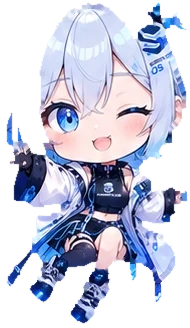
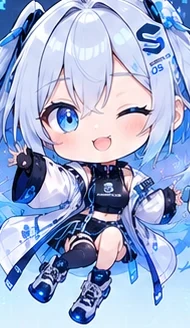
1C23 — ประโยคเดียว · สีทึบ · น้องไซตัวครบ
1. น้องไซตัวขาดเพราะ despeckle เก็บเฉพาะก้อนใหญ่สุด หลัง erode 2px
   ปอยผม รองเท้า ของในมือขาดจากตัวแล้วถูกลบทิ้งทั้งชิ้น
   แต่รากลึกกว่านั้น: ผมสีเงินกับเสื้อคลุมขาวโปร่งมีค่าสีอยู่ในระยะเดียวกับ
   พื้นหลังฟ้าอ่อน ไม่มีเกณฑ์ไหนแยกได้เพราะมันเป็นสีเดียวกันจริง
   เลิกตัดแล้ว ใช้ภาพเต็มในไทล์มุมมนที่ไม่มีพื้น/กรอบ เพื่อให้ทับด้วย
   PNG พื้นโปร่งได้ทันทีเมื่อได้ไฟล์จากเจ้าของ

2. การ์ดผลลัพธ์เหลือประโยคเดียว "คืนนี้ไม่แตะ พรุ่งนี้ +45 นาที"
   พื้นทึบ --fill + --on-fill สูตรเดียวกับหัวตั๋วในหน้าวันนี้

3. ตัดเวลาที่เขียนซ้ำในแถวเดียวกันออก บรรทัดรองเหลือ "ถึง 21:00"

4. ช่องว่างเป็นก้อน --sig-green ตัวอักษรขาว ผ่าน AA ทุกธีม
   การ์ด "พัก" เส้นประเปลี่ยนเป็นขาวโปร่งด้วย ไม่งั้นเทาบนเขียวอ่านไม่ออก

diff --git a/alt/sai.css b/alt/sai.css
@@ -113,9 +113,14 @@
   position: relative; width: 92px; height: 159px;
   transform: rotate(calc(var(--sx) * 3.5deg)) translateX(calc(var(--sx) * 4px));
 }
+/* มุมมน แต่ไม่มีพื้นหลัง — จงใจให้ใช้ได้กับภาพสองชนิดโดยไม่ต้องแก้ CSS:
+   ไฟล์ปัจจุบันยังมีพื้นหลังฟ้าอ่อนติดมา มุมมนทำให้มันอ่านเป็น "ไทล์" ไม่ใช่รูปสี่เหลี่ยมแปะ
+   วันที่ได้ PNG พื้นโปร่งจากคนวาด มุมมนบนพื้นโปร่งมองไม่เห็นอยู่แล้ว — ทับไฟล์ทิ้งได้เลย
+   ⚠ ห้ามใส่ background/border/box-shadow ตรงนี้ ไม่งั้นวันนั้นจะได้กรอบลอยรอบตัวเปล่า ๆ */
 .saip-chibi {
   position: relative; display: block;
   width: 92px; height: 159px; object-fit: contain;
+  border-radius: 16px;
   animation: saiFloat 4.6s ease-in-out infinite;
 }
 .saip-chibi.dim { filter: saturate(.75) brightness(.94); }
@@ -182,19 +187,19 @@
 .sd-wake .sd-t, .sd-sleep .sd-t { color: var(--muted); font-weight: 700; font-size: 15px; }
 
 /* ---------- สีแยกหมวด ----------
-   ⚠ มีสีเดียวในเส้นเวลาทั้งเส้น และมันคือ "ช่องว่าง"
-   รอบที่แล้วทาสีทุกหมวด (เรียนฟ้า · ว่างเขียว · กิจกรรมเหลือง) ซึ่งได้ผลตรงข้าม:
-   เมื่อทุกอย่างมีสี ก็ไม่มีอะไรเด่น และในธีมมืดสีโปร่งสามสีทับพื้นการ์ดกลายเป็นโคลนสามกอง
-   ช่องว่างคือสิ่งเดียวบนเส้นนี้ที่เขา "ตัดสินใจได้" — คาบเรียนกับกิจวัตรเปลี่ยนไม่ได้อยู่แล้ว
-   สีจึงควรอยู่บนของที่กดแล้วเกิดอะไรขึ้น ไม่ใช่บนของที่ดูอย่างเดียว
+   มีก้อนสีทึบก้อนเดียวในเส้นเวลาทั้งเส้น และมันคือ "ช่องว่าง"
+   เพราะเป็นสิ่งเดียวบนเส้นนี้ที่เขาตัดสินใจได้ — คาบเรียนกับกิจวัตรเปลี่ยนไม่ได้อยู่แล้ว
+   สีควรอยู่บนของที่กดแล้วเกิดอะไรขึ้น ไม่ใช่บนของที่ดูอย่างเดียว
 
-   ใช้คู่ --pri-green-soft / --pri-green-text ซึ่งเป็นคู่ที่ออกแบบมาให้วางบนพื้นการ์ด
-   และพลิกตามธีมพร้อมกันทั้งคู่ · ห้ามเอา --sig-* มาใช้ตรงนี้ (ตัวอักษรจะเข้มบนพื้นเข้ม) */
+   ⚠ --sig-green ไม่พลิกตามธีม และตัวอักษรขาวบนมันผ่าน AA ทุกธีม (6.0)
+   ห้ามเปลี่ยนไปใช้ --good/--pri-green-* ตรงนี้ เพราะสองตัวนั้นพลิกตามธีม
+   ธีมมืดจะได้เขียวอ่อนซึ่งตัวอักษรขาวอ่านไม่ออก */
 .sd-free .sd-x {
-  background: var(--pri-green-soft);
-  border-left-color: var(--pri-green-text);
+  background: var(--sig-green); border-left-color: rgba(255,255,255,.35);
+  color: #fff;
 }
-.sd-free .sd-x > b { color: var(--pri-green-text); }
+.sd-free .sd-x > b { color: #fff; }
+.sd-free .sd-x > i { color: rgba(255,255,255,.8); }
 
 .sd-ev .sd-x { border-left-color: var(--pri-yellow-text); }
 .sd-ev .sd-x > b { color: var(--pri-yellow-text); }
@@ -274,56 +279,39 @@ button.sd-job:active { transform: scale(.985); }
    ตัวเลขทุกตัวในใบนี้มาจาก state จริง ไม่มีตัวไหนเป็นคำให้กำลังใจ
    วันไหนตัวเลขไม่สวยก็ต้องขึ้นตามนั้น — ตัวเลขที่สวยเสมอคือตัวเลขที่ไม่มีใครเชื่อ
    ============================================================ */
-/* ⚠ ตระกูลสีที่ใช้ตรงนี้คือ --sig-* เท่านั้น และนี่ไม่ใช่เรื่องรสนิยม
-   แอปนี้มีสองตระกูลที่ห้ามปนกัน (ดูบล็อก "โทเคนสัญญาณ" ใน today.css):
-     --pri-*-soft / --pri-*-text   พลิกตามธีม · พื้นอ่อน + ตัวอักษรเข้ม · วางบนพื้นการ์ด
-     --sig-*                       ไม่พลิกตามธีม · พื้นทึบ + ตัวอักษรขาวเสมอ
-   รอบที่แล้วผมใช้ --good-soft/--warn-soft ซึ่งในธีมมืดเป็นสีโปร่ง 26%
-   ทับพื้นการ์ดกรมท่า ได้สีโคลนน้ำตาลขุ่นที่อ่านยากและดูไม่ได้
-   การ์ดใบนี้เป็น "ก้อนสีเดียวของทั้งจอ" เหมือนหัวตั๋วในหน้าวันนี้ จึงต้องเป็นพื้นทึบ
-   ขาวบน #0B6E3F = 6.0 · บน #B54708 = 5.9 ผ่าน AA ทั้งคู่ทุกธีม */
+/* ============================================================
+   การ์ดผลลัพธ์ — ประโยคเดียว พื้นทึบ
+   ------------------------------------------------------------
+   สูตรเดียวกับหัวตั๋ว .tn-head ในหน้าวันนี้ ซึ่งเป็นใบที่เจ้าของชี้เองว่าสีโอเค:
+   พื้น --fill · ตัวอักษร --on-fill · วงกลมขาวโปร่งสองวงเป็นลวดลาย
+   ⚠ ทุกอย่างในนี้สืบสีจาก --on-fill ห้ามหลุดไปใช้ --ink แม้แต่ตัวเดียว
+   ไม่งั้นจะได้ตัวหนังสือเข้มบนพื้นเข้ม ซึ่งพังเฉพาะบางธีมและมองข้ามง่ายมากตอนเทส
+   ============================================================ */
 .sp-hero {
-  margin: 12px 0 6px; padding: 16px 18px;
-  border-radius: var(--r-card);
-  color: #fff;
-  box-shadow: var(--shadow);
+  position: relative; overflow: hidden;
+  margin: 12px 0 8px; padding: 20px 20px 22px;
+  border-radius: calc(var(--r-card) + 4px);
+  background: var(--fill); color: var(--on-fill);
+  box-shadow: var(--shadow-lg);
 }
-.sp-hero.ok   { background: var(--sig-green); }
-.sp-hero.warn { background: var(--sig-amber); }
-.sp-hero.calm { background: var(--card2); color: var(--ink); box-shadow: none; }
-
-.sp-h-lb {
-  display: block; font-size: 11.5px; font-weight: 700;
-  letter-spacing: .04em; color: rgba(255,255,255,.82);
+.sp-hero::after {
+  content: ''; position: absolute; right: -40px; top: -52px;
+  width: 160px; height: 160px; border-radius: 50%;
+  background: rgba(255,255,255,.11); pointer-events: none;
 }
-.sp-hero.calm .sp-h-lb { color: var(--muted); }
-
-/* ตัวเลขที่เป็นคำตอบใหญ่กว่าคำรอบข้างอีกชั้น — คนกวาดตาเจอ "0" ก่อนเจอ "ส่งทัน"
-   ซึ่งถูกแล้ว เพราะคำว่า "ส่งทัน" เหมือนกันทุกวัน ตัวเลขคือสิ่งเดียวที่เปลี่ยน */
-.sp-h-big {
-  display: block; margin-top: 3px;
-  font-size: 23px; font-weight: 750; letter-spacing: -.02em; line-height: 1.25;
+.sp-hero::before {
+  content: ''; position: absolute; right: 22px; bottom: -62px;
+  width: 116px; height: 116px; border-radius: 50%;
+  background: rgba(255,255,255,.07); pointer-events: none;
 }
-.sp-h-big em { font-style: normal; font-size: 34px; font-weight: 850; }
-
-/* สองผลที่ตามมา — อยู่แถวเดียวกันเพราะเป็นสองด้านของการตัดสินใจเดียว
-   พื้นขาวโปร่งบนพื้นทึบ ใช้ได้ทุกธีมเพราะพื้นข้างหลังไม่พลิกตามธีม */
-.sp-h-row {
-  display: grid; grid-template-columns: minmax(0, 1fr) minmax(0, 1fr); gap: 8px;
-  margin-top: 14px;
+.sp-hero b {
+  position: relative;
+  display: block; font-size: 19px; font-weight: 700; line-height: 1.45;
+  letter-spacing: -.015em; color: var(--on-fill);
 }
-.sp-h-cell {
-  min-width: 0; padding: 9px 11px; border-radius: 12px;
-  background: rgba(255,255,255,.16);
-}
-.sp-hero.calm .sp-h-cell { background: var(--card); }
-.sp-h-cell i {
-  display: block; font-size: 10.5px; font-style: normal; font-weight: 700;
-  color: rgba(255,255,255,.78); line-height: 1.3;
-}
-.sp-hero.calm .sp-h-cell i { color: var(--muted); }
-.sp-h-cell b {
-  display: block; margin-top: 2px; font-size: 14.5px; font-weight: 800; line-height: 1.3;
+/* ตัวเลขคือสิ่งเดียวที่เปลี่ยนทุกวัน — คำรอบข้างเหมือนเดิมเสมอ มันจึงต้องใหญ่กว่า */
+.sp-hero b em {
+  font-style: normal; font-size: 32px; font-weight: 850; letter-spacing: -.03em;
 }
 
 /* ---------- ปุ่มเรียกโหมดเล่าทีละข้อ ---------- */
@@ -384,3 +372,11 @@ button.sd-job:active { transform: scale(.985); }
 .st-next { background: var(--fill); border: 0; color: var(--on-fill); }
 .st-next svg { width: 15px; height: 15px; }
 .st-back:active, .st-next:active { transform: scale(.98); }
+
+/* การ์ด "พัก" เป็นแบบโปร่งเส้นประ ซึ่งบนพื้นเขียวทึบกลายเป็นเทาบนเขียว อ่านแทบไม่ออก
+   มันนั่งอยู่บนพื้นที่ไม่พลิกตามธีม จึงต้องใช้สีที่ไม่พลิกตามธีมด้วย (ขาวโปร่ง)
+   กฎเดียวกับบล็อก "โทเคนสัญญาณ" ใน today.css — ผสมสองตระกูลเมื่อไหร่คือพังธีมใดธีมหนึ่ง */
+.sd-free .sd-job.brk { border-color: rgba(255,255,255,.4); }
+.sd-free .sd-job.brk .sd-jt { color: rgba(255,255,255,.72); }
+.sd-free .sd-job.brk .sd-jx b { color: #fff; }
+.sd-free .sd-job.brk .sd-jx i { color: rgba(255,255,255,.72); }

diff --git a/alt/sai.js b/alt/sai.js
@@ -273,7 +273,9 @@ function saiDayRows(now) {
   for (const b of busy) {
     rows.push({
       at: b.from, to: b.to, kind: b.kind === 'class' ? 'class' : 'rt',
-      title: b.title, sub: min2hm(b.from) + '–' + min2hm(b.to) + ' · ' + hm(b.to - b.from),
+      // เวลาเริ่มอยู่คอลัมน์ซ้ายของแถวแล้ว เขียนซ้ำในก้อนคือข้อความส่วนเกินตรง ๆ
+      // ส่วนความยาวช่วงถูกบอกด้วย "ความสูงของก้อน" อยู่แล้ว ไม่ต้องมีตัวเลขอีกชุด
+      title: b.title, sub: 'ถึง ' + min2hm(b.to),
     });
   }
 
@@ -299,8 +301,9 @@ function saiDayRows(now) {
     rows.push({
       at: f.from, to: f.to, kind: 'free',
       title: 'ว่าง ' + hm(f.min),
-      sub: min2hm(f.from) + '–' + min2hm(f.to)
-        + (used ? ' · จัดงานไว้ ' + hm(used) : ' · ยังไม่ได้จัดอะไร'),
+      // "จัดงานไว้ 1 ชม. 42 นาที" ถูกตัดด้วย — การ์ดงานที่ซ้อนอยู่ข้างล่างมีเวลาของตัวเอง
+      // ทุกใบอยู่แล้ว ตัวเลขรวมจึงเป็นการนับซ้ำของที่ตาเห็นอยู่ตรงหน้า
+      sub: 'ถึง ' + min2hm(f.to) + (used ? '' : ' · ยังไม่ได้จัดอะไร'),
       kids,
     });
   }
@@ -355,24 +358,26 @@ function renderSaiPlan() {
   // ที่ถูกตัดออกรอบนี้: "งานที่ถึงกำหนดภายในพรุ่งนี้" — ตัวเลขข้างบนพูดไปแล้ว
   // และ "ทำครบแล้วเหลือเป็นของเรา" ยาวเกินกว่าจะเป็นป้ายกำกับตัวเลข
   // เหลือสามชิ้น: พูดว่าอะไร · ตัวเลขใหญ่ · สองผลที่ตามมา
+  // ⚠ ประโยคเดียว ตัวเลขเดียว — เจ้าของเลือกแบบ A เอง (21 ก.ย. 2569)
+  // ของเดิมมีห้าก้อนข้อความ: "ทำตามแผนนี้" · "ส่งทัน 0 จาก 1 ใบ" · สองป้าย · สองค่า
+  // ซึ่งอ่านแล้วต้องประกอบเองว่าตกลงมันบอกอะไร · คำตอบที่คมที่สุดมีข้อเดียว
+  // คือ "ไม่ทำแล้วเจออะไร" ที่เหลือเป็นของที่เส้นเวลาข้างล่างบอกครบอยู่แล้ว
+  //
+  // พื้นทึบสีเน้นของธีม + ตัวอักษร --on-fill · สูตรเดียวกับหัวตั๋วในหน้าวันนี้เป๊ะ
+  // (เจ้าของสั่ง: "เข้มจัดเต็มแบบการ์ดฟ้าหน้าวันนี้")
+  // ⚠ ทุกตัวในนี้ต้องสืบสีจาก --on-fill ไม่ใช่ --ink ลืมตัวเดียวได้ตัวหนังสือเข้มบนพื้นเข้ม
   let hero = '';
-  if (pay.soon > 0) {
-    // เขียวต่อเมื่อทันครบทุกใบเท่านั้น — ทัน 1 จาก 2 ยังเป็นข่าวไม่ดี
-    // การ์ดเขียวที่ขึ้นตอนยังมีใบที่ไม่ทัน คือการ์ดที่สอนให้เลิกเชื่อสีของมันเอง
-    const win = pay.pileup === 0;
-    hero = '<section class="sp-hero ' + (win ? 'ok' : 'warn') + '">'
-      + '<span class="sp-h-lb">ทำตามแผนนี้</span>'
-      + '<b class="sp-h-big">ส่งทัน <em>' + pay.covered + '</em> จาก ' + pay.soon + ' ใบ</b>'
-      + '<div class="sp-h-row">'
-      +   '<span class="sp-h-cell"><i>ไม่ทำคืนนี้</i><b>'
-      +     (pay.pileup > 0 ? 'พรุ่งนี้ +' + hm(pay.pileup) : 'ยังทัน') + '</b></span>'
-      +   '<span class="sp-h-cell"><i>เหลือของเรา</i><b>'
-      +     (pay.mine > 0 ? hm(pay.mine) : 'ไม่เหลือ') + '</b></span>'
-      + '</div></section>';
+  if (pay.pileup > 0) {
+    hero = '<section class="sp-hero">'
+      + '<b>คืนนี้ไม่แตะ<br>พรุ่งนี้ <em>+' + hm(pay.pileup) + '</em></b>'
+      + '</section>';
+  } else if (pay.soon > 0) {
+    hero = '<section class="sp-hero ok">'
+      + '<b>ทำตามนี้<br><em>ทันหมดทุกใบ</em></b>'
+      + '</section>';
   } else if (pay.plannedMin > 0) {
-    hero = '<section class="sp-hero calm">'
-      + '<span class="sp-h-lb">ไม่มีอะไรถึงกำหนด</span>'
-      + '<b class="sp-h-big">ทำล่วงหน้า <em>' + hm(pay.plannedMin) + '</em></b>'
+    hero = '<section class="sp-hero ok">'
+      + '<b>ไม่มีอะไรถึงกำหนด<br>ทำล่วงหน้า <em>' + hm(pay.plannedMin) + '</em></b>'
       + '</section>';
   }
 

diff --git a/alt/sw.js b/alt/sw.js
@@ -4,7 +4,7 @@
 // สายนี้เคยเป็นบิลด์ทดลอง (ALT) และถูกยกขึ้นเป็นตัวหลักตั้งแต่ 1A7V2 · ชื่อ cache เลยเปลี่ยนตาม
 // -m: เปลี่ยนโลโก้ทั้งชุด — ชื่อไฟล์เดิมทุกไฟล์ ถ้าไม่ขึ้นเลขรุ่น เครื่องที่ติดตั้งไว้แล้ว
 // จะเสิร์ฟโลโก้เก่าจากแคชต่อไปโดยไม่มีอะไรบอกว่ามีของใหม่
-const CACHE = 'studentos-1c22-noglow'; // ขึ้นเวอร์ชันทุกครั้งที่ปล่อย ของเก่าถูกลบตอน activate
+const CACHE = 'studentos-1c23-oneline'; // ขึ้นเวอร์ชันทุกครั้งที่ปล่อย ของเก่าถูกลบตอน activate
 // ทุกไฟล์ที่ index.html อ้างถึงต้องอยู่ในรายการนี้ — ไฟล์ที่หน้าเรียกแต่ไม่ได้แคชไว้
 // จะหายไปเงียบ ๆ ตอนออฟไลน์ โดยไม่มีอะไรบอกว่าหายไปไหน (ไอคอน icon-alt-* เป็นของที่หน้ายังอ้างถึงอยู่จริง)
 //

diff --git a/alt/app.js b/alt/app.js
@@ -11,8 +11,8 @@
 // ชื่อคีย์เป็นเรื่องภายใน ผู้ใช้ไม่เคยเห็น — ไม่คุ้มที่จะแลกกับข้อมูลของคนที่ใช้อยู่
 // ============================================================
 
-const APP_VERSION = '1C22';                 // สายเลขของแอป
-const APP_CODENAME = 'No Glow';           // ชื่อรุ่นของอัปเดตนี้
+const APP_VERSION = '1C23';                 // สายเลขของแอป
+const APP_CODENAME = 'One Line';           // ชื่อรุ่นของอัปเดตนี้
 const STORE_KEY = 'studentos.alt.v1';       // ที่เก็บข้อมูลหลัก — ดูหมายเหตุเรื่องชื่อคีย์ข้างบน
 
 let state = { tasks: [], settings: { name: '', freeHours: 2 } };

diff --git a/alt/devtools/extract-synara.py b/alt/devtools/extract-synara.py
@@ -151,7 +151,16 @@ for name, box in FACES.items():
     img.save(f'{OUT}/sai-face-{name}.webp', 'WEBP', quality=90, method=6)
     print('face', name, img.size)
 
-chibi = cutout((988, 612, 1178, 940), tol=45, feather=0.5,
-                erode=2, despeckle=True, decontaminate=True, bleed=3)
+# ⚠ ชิบิ **ไม่ตัดพื้นหลัง** แล้วตั้งแต่ 1C23 — และห้ามกลับไปตัดอีก
+# ลองมาสามรอบ ทุกรอบพังคนละแบบ:
+#   tol ต่ำ  → พื้นหลังเหลือเป็นรัศมีรอบตัว
+#   tol สูง  → กินผมกับเสื้อคลุมจนตัวขาด (เจ้าของ: "น้องไซก็ตัวขาดเหมือนเดิม")
+#   despeckle เก็บเฉพาะก้อนใหญ่สุด → ปอยผม/รองเท้า/ของในมือที่ขาดจากตัวตอน erode
+#                                     ถูกลบทิ้งทั้งชิ้น
+# เหตุผลที่ตัดไม่ได้จริง ๆ ไม่ใช่เพราะ algorithm ไม่ดีพอ: ผมสีเงินกับเสื้อคลุมขาวโปร่ง
+# มีค่าสีอยู่ในระยะเดียวกับพื้นหลังฟ้าอ่อน (วัดได้ห่างกัน ~24 จาก 765)
+# ไม่มีเกณฑ์ไหนแยกสองอย่างนี้ออกจากกันได้ เพราะมัน *เป็น* สีเดียวกันจริง ๆ
+# ต้องให้คนตัดด้วยมือ หรือขอไฟล์ PNG พื้นโปร่งจากคนวาด
+chibi = src.crop((988, 612, 1178, 940)).convert('RGBA')
 chibi.save(f'{OUT}/sai-chibi.webp', 'WEBP', quality=90, method=6)
 print('chibi', chibi.size)

diff --git a/alt/PATCHNOTES.md b/alt/PATCHNOTES.md
@@ -20,6 +20,46 @@
 
 ---
 
+# StudentOS Update 1C23 “One Line” — ประโยคเดียว · สีทึบ · น้องไซตัวครบ
+
+**ฐาน:** ต่อจาก 1C22 · **วันที่:** 21 กันยายน 2569 · **สถานะ:** ขึ้นแล้ว · รอไฟล์ PNG พื้นโปร่งจากเจ้าของ
+
+## 1 · น้องไซตัวขาด — และทำไมถึงหยุดตัดพื้นหลัง
+
+`despeckle` เก็บเฉพาะก้อนที่ใหญ่ที่สุด · หลัง `erode` 2 พิกเซล ปอยผม รองเท้า
+และของในมือขาดจากตัว กลายเป็นคนละก้อน แล้วถูกลบทิ้งทั้งชิ้น
+
+แต่รากของปัญหาลึกกว่านั้นและแก้ด้วยพารามิเตอร์ไม่ได้: **ผมสีเงินกับเสื้อคลุมขาวโปร่ง
+มีค่าสีอยู่ในระยะเดียวกับพื้นหลังฟ้าอ่อน** (วัดได้ห่างกัน ~24 จาก 765)
+ไม่มีเกณฑ์ไหนแยกสองอย่างนี้ออกได้ เพราะมัน *เป็น* สีเดียวกันจริง ๆ
+tol ต่ำ → เหลือรัศมี · tol สูง → ตัวขาด · ไม่มีจุดตรงกลาง
+
+**เลิกตัดแล้ว** ใช้ภาพเต็มในไทล์มุมมน · CSS ของไทล์จงใจไม่มี background/border
+เพื่อให้วันที่ได้ PNG พื้นโปร่งมา ทับไฟล์ทิ้งได้เลยโดยไม่ต้องแก้อะไร
+
+## 2 · การ์ดผลลัพธ์เหลือประโยคเดียว
+
+ของเดิมมีห้าก้อนข้อความให้ประกอบเอง ตอนนี้เหลือข้อเดียวที่คมที่สุด:
+
+> **คืนนี้ไม่แตะ**
+> **พรุ่งนี้ +45 นาที**
+
+พื้นทึบ `--fill` + ตัวอักษร `--on-fill` + วงกลมขาวโปร่งสองวง — สูตรเดียวกับหัวตั๋ว
+`.tn-head` ในหน้าวันนี้เป๊ะ ซึ่งเป็นใบที่เจ้าของชี้เองว่าสีโอเค
+
+## 3 · ตัดเวลาที่เขียนซ้ำออกจากเส้นเวลา
+
+`16:30` เคยโผล่สองที่ในแถวเดียว (คอลัมน์ซ้าย + ในก้อน) และ "จัดงานไว้ 1 ชม. 42 นาที"
+ก็นับซ้ำกับการ์ดงานข้างล่างที่มีเวลาของตัวเองทุกใบ · บรรทัดรองเหลือ "ถึง 21:00"
+
+## 4 · ช่องว่างเป็นก้อนสีทึบ
+
+`--sig-green` ตัวอักษรขาว (AA 6.0 ทุกธีม) · ก้อนสีทึบก้อนเดียวในเส้นเวลาทั้งเส้น
+เพราะช่องว่างเป็นสิ่งเดียวที่ตัดสินใจได้ · การ์ด "พัก" แบบเส้นประต้องเปลี่ยนเป็นขาวโปร่งด้วย
+ไม่งั้นได้เทาบนเขียวที่อ่านแทบไม่ออก — กฎเดิม: พื้นที่ไม่พลิกตามธีม ต้องคู่กับสีที่ไม่พลิกตามธีม
+
+---
+
 # StudentOS Update 1C22 “No Glow” — ขอบเรืองแสงคือ CSS ของเราเอง · จัดสีใหม่ตามระบบที่มีอยู่
 
 **ฐาน:** ต่อจาก 1C21 · **วันที่:** 21 กันยายน 2569 · **สถานะ:** ขึ้นแล้ว
